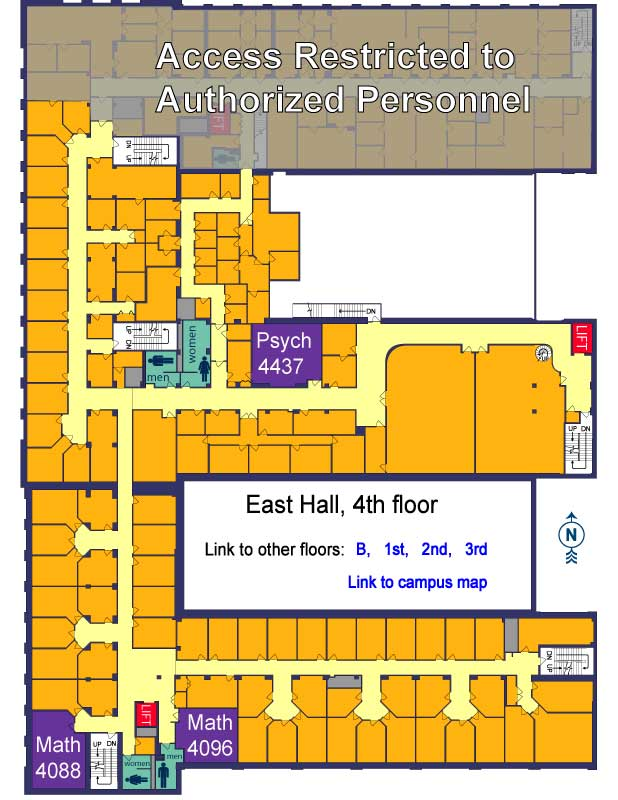
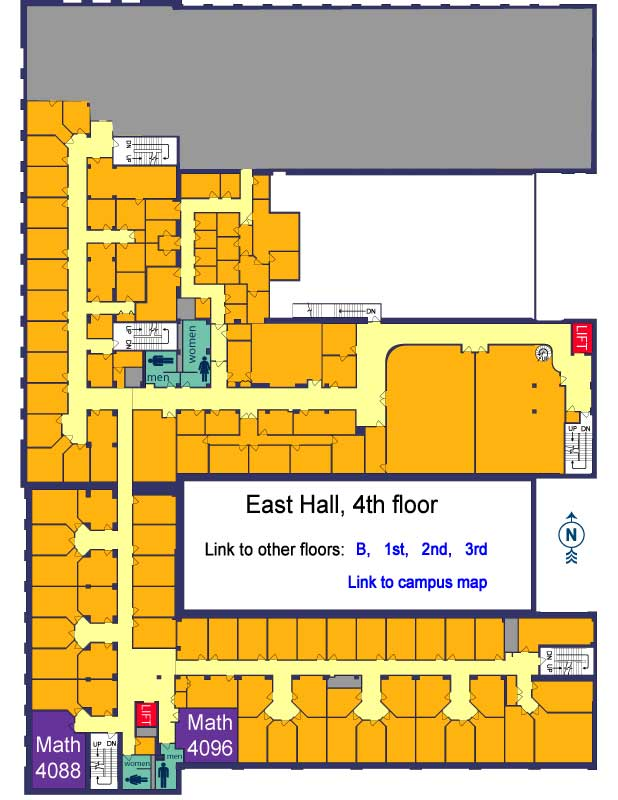
updated maps for eh4

Changed region(s): [[0.0307, 0.0, 0.9531, 0.2188], [0.3997, 0.4062, 0.5227, 0.5]]

diff --git a/public/maps/eh4.html b/public/maps/eh4.html
@@ -1,13 +1,11 @@
-<!DOCTYPE html PUBLIC "-//W3C//DTD XHTML 1.0 Transitional//EN" "http://www.w3.org/TR/xhtml1/DTD/xhtml1-transitional.dtd">
-<html xmlns="http://www.w3.org/1999/xhtml">
+<!DOCTYPE html>
 <head>
 <meta http-equiv="Content-Type" content="text/html; charset=utf-8" />
 <title>East Hall - floor 4</title>
 </head>
 <body>
-<img src="eh4.jpg" alt="Image East Hall - 4th floor" width="618" height="800" hspace="20" vspace="20" border="0" usemap="#eh4"  />
+<img style="margin:20px;"src="eh4.jpg" alt="Image East Hall - 4th floor" width="618" height="800" border="0" usemap="#eh4"  />
 <map name="eh4" id="eh4">
-  <area shape="rect" coords="253,320,319,385" href="../classrooms/EH4437" alt="Link to data room 4437" title="Link to data room 4437" />
   <area shape="rect" coords="27,712,87,792" href="../classrooms/EH4088" alt="Link to data room 4088" title="Link to data room 4088" />
   <area shape="rect" coords="178,707,238,766" href="../classrooms/EH4096" alt="Link to data room 4096" title="Link to data room 4096" />
   <area shape="rect" coords="463,539,494,562" href="eh3.html"  alt="go to the 3rd floor" title="go to the 3rd floor" />
